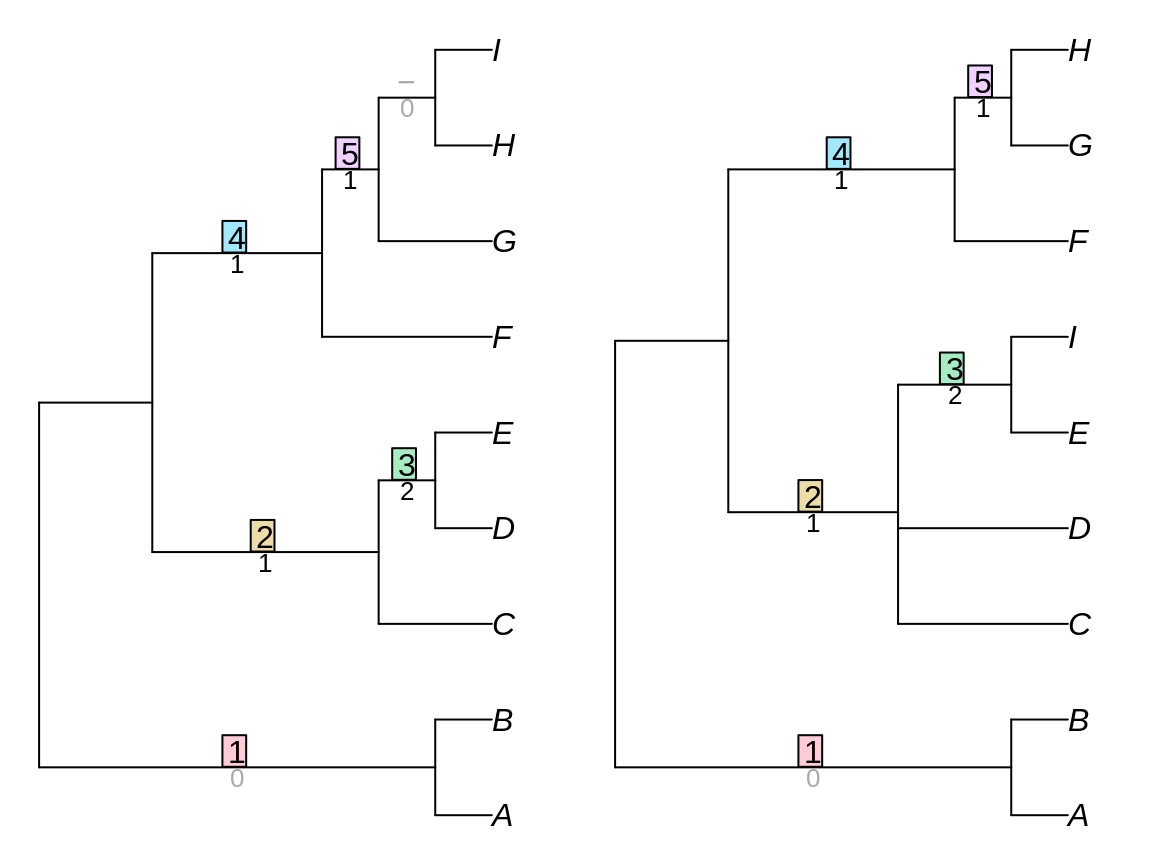
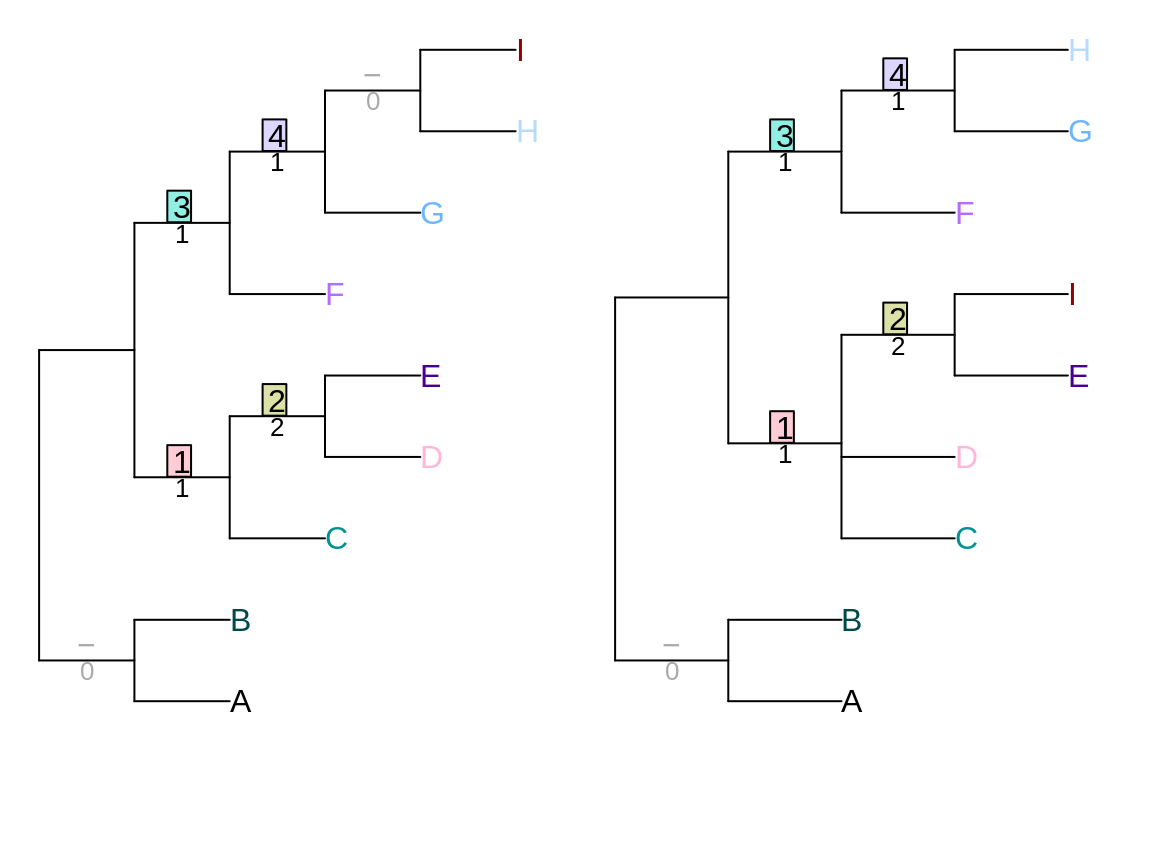
Built site for TreeDist: 0.0.0.9000@7f45f6f

diff --git a/index.html b/index.html
@@ -105,15 +105,24 @@
 <!--#TODO: https://devguide.ropensci.org/building.html#readme -->
 
 <p><code>TreeDist</code> implements a suite of metrics that quantify the topological distance between pairs of unweighted phylogenetic trees. The metrics generally fall in the category of “generalized Robinson-Foulds distances”: they are based on comparing partitions between trees, and thus reflect the relationship data within trees, with no reference to branch lengths.</p>
-<p>The Robinson-Foulds distance simply tallies the number of bipartition splits (loosely, clades) that occur in both trees – any clades that are not perfectly identical are assigned a score of zero, however similar or different they are. By overlooking potential similarities between almost-identical bipartitions, this conservative approach has undesirable properties.</p>
-<p>‘Generalized’ RF metrics pair each bipartition in one tree with a similar bipartition in the other. Each pair of partitions is assigned a similarity score; the sum of these scores in the optimal partition matching then describes the similarity between two trees.</p>
+<p>The <a href="https://ms609.github.io/TreeDist/articles/Robinson-Foulds.html">Robinson-Foulds distance</a> simply tallies the number of bipartition splits (loosely, clades) that occur in both trees – any clades that are not perfectly identical are assigned a score of zero, however similar or different they are. By overlooking potential similarities between almost-identical bipartitions, this conservative approach has undesirable properties.</p>
+<p><a href="https://ms609.github.io/TreeDist/articles/Generalized-RF.html">‘Generalized’ RF metrics</a> pair each bipartition in one tree with a similar bipartition in the other. Each pair of partitions is assigned a similarity score; the sum of these scores in the optimal partition matching then describes the similarity between two trees.</p>
 <p>Different ways of calculating the the similarity between a pair of partitions lead to different tree distance metrics, implemented in the functions below:</p>
 <ul>
-<li><p><code>MutualClusteringInfo</code>, <code>MutualPhylogeneticInfo</code> Smith (forthcoming) scores matchings based on the amount of information that one partition contains about the other. The Mutual Phylogenetic Information imposes arboreal matching: i.e. a pair of splits that cannot both exist on a single tree are assigned zero similarity. The Mutual Clustering Information metric is more forgiving, and exhibits more desirable behaviour; it is the recommended metric for tree comparison. (Its complement, <code>VariationOfClusteringInfo</code>, returns a tree distance.)</p></li>
-<li><p><code>NyeTreeSimilarity</code> Nye <em>et al.</em> (2006) score matchings according to the size of the largest bipartition that is consistent with both of them, normalized against the Jaccard index.</p></li>
-<li><p><code>MatchingSplitDistance</code> Bogdanowicz and Giaro (2012), and independently Lin <em>et al.</em> (2012), count the number of ‘mismatched’ terminals in a pair of bipartitions.</p></li>
+<li>
+<p><a href="https://ms609.github.io/TreeDist/reference/TreeDistance.html"><code>MutualClusteringInfo</code></a>, <a href="https://ms609.github.io/TreeDist/reference/TreeDistance.html"><code>MutualPhylogeneticInfo</code></a></p>
+<p>Smith (forthcoming) scores matchings based on the amount of information that one partition contains about the other. The Mutual Phylogenetic Information imposes arboreal matching: i.e. a pair of splits that cannot both exist on a single tree are assigned zero similarity. The Mutual Clustering Information metric is more forgiving, and exhibits more desirable behaviour; it is the recommended metric for tree comparison. (Its complement, <a href="https://ms609.github.io/TreeDist/reference/TreeDistance.html"><code>VariationOfClusteringInfo</code></a>, returns a tree distance.)</p>
+</li>
+<li>
+<p><a href="https://ms609.github.io/TreeDist/reference/NyeTreeSimilarity.html"><code>NyeTreeSimilarity</code></a></p>
+<p>Nye <em>et al.</em> (2006) score matchings according to the size of the largest bipartition that is consistent with both of them, normalized against the Jaccard index. This approach is extended by Böcker <em>et al</em>. (2013) with the Jaccard-Robinson-Foulds metric (function <a href="https://ms609.github.io/TreeDist/reference/JaccardRobinsonFoulds.html"><code>JaccardRobinsonFoulds</code></a>).</p>
+</li>
+<li>
+<p><a href="https://ms609.github.io/TreeDist/reference/MatchingSplitDistance.html"><code>MatchingSplitDistance</code></a></p>
+<p>Bogdanowicz and Giaro (2012), and independently Lin <em>et al.</em> (2012), count the number of ‘mismatched’ terminals in a pair of bipartitions.</p>
+</li>
 </ul>
-<p>The package also implements the variation of the path distance proposed by Kendal and Colijn (2016) (function <code>KendallColijn</code>).</p>
+<p>The package also implements the variation of the path distance proposed by Kendal and Colijn (2016) (function <a href="https://ms609.github.io/TreeDist/reference/KendallColijn.html"><code>KendallColijn</code></a>).</p>
 </div>
 <div id="installation" class="section level1">
 <h1 class="hasAnchor">
@@ -134,11 +143,10 @@ If you're feeling brave, y-->
 <div id="documentation" class="section level1">
 <h1 class="hasAnchor">
 <a href="#documentation" class="anchor"></a>Documentation</h1>
-<p>CRAN documentation files:</p>
 <ul>
-<li>
-<a href="https://CRAN.R-project.org/package=TreeDist/TreeDist.pdf">Package functions</a> reference manual</li>
-<li><a href="https://CRAN.R-project.org/package=TreeDist/vignettes/tree-distances.html">Tree distances</a></li>
+<li><p><a href="https://ms609.github.io/TreeDist/articles/Using-TreeDist.html">Using TreeDist</a></p></li>
+<li><p><a href="https://ms609.github.io/TreeDist/reference/index.html">Package functions</a></p></li>
+<li><p><a href="https://ms609.github.io/TreeDist/articles/">All vignettes</a></p></li>
 </ul>
 </div>
 <div id="see-also" class="section level1">
@@ -172,10 +180,11 @@ If you're feeling brave, y-->
 <h1 class="hasAnchor">
 <a href="#references" class="anchor"></a>References</h1>
 <ul>
+<li><p>Böcker, S. <em>et al.</em> (2013) <a href="https://dx.doi.org/10.1007/978-3-642-40453-5_13">The Generalized Robinson-Foulds Metric</a>. Algorithms in Bioinformatics. WABI 2013. Lecture Notes in Computer Science, 8126, 156–69.</p></li>
 <li><p>Bogdanowicz, D. and Giaro, K. (2012) <a href="https://dx.doi.org/10.1109/TCBB.2011.48">Matching split distance for unrooted binary phylogenetic trees</a>. IEEE/ACM Transactions on Computational Biology and Bioinformatics, 9, 150–160.</p></li>
 <li><p>Kendall, M. and Colijn, C. (2016) <a href="https://dx.doi.org/10.1093/molbev/msw124">Mapping phylogenetic trees to reveal distinct patterns of evolution</a>. Mol Biol Evol, 33, 2735–2743.</p></li>
-<li><p>Nye, T.M.W. et al. (2006) <a href="https://dx.doi.org/10.1093/bioinformatics/bti720">A novel algorithm and web-based tool for comparing two alternative phylogenetic trees</a>. Bioinformatics, 22, 117–119.</p></li>
-<li><p>Smith, M.R. (forthcoming) [Information theoretic Generalized Robinson-Foulds metrics for comparing phylogenetic trees].</p></li>
+<li><p>Nye, T.M.W. <em>et al.</em> (2006) <a href="https://dx.doi.org/10.1093/bioinformatics/bti720">A novel algorithm and web-based tool for comparing two alternative phylogenetic trees</a>. Bioinformatics, 22, 117–119.</p></li>
+<li><p>Smith, M.R. (in review) [Information theoretic Generalized Robinson-Foulds metrics for comparing phylogenetic trees].</p></li>
 </ul>
 <p>Please note that the ‘TreeDist’ project is released with a <a href="CODE_OF_CONDUCT.html">Contributor Code of Conduct</a>. By contributing to this project, you agree to abide by its terms.</p>
 </div>
@@ -222,7 +231,7 @@ If you're feeling brave, y-->
 <h2>Dev status</h2>
 <ul class="list-unstyled">
 <li><a href="http://www.repostatus.org/#active"><img src="http://www.repostatus.org/badges/latest/active.svg" alt="Project Status: Active – The project has reached a stable, usable state and is being actively developed."></a></li>
-<li><a href="https://travis-ci.com/ms609/TreeDist"><img src="https://travis-ci.com/ms609/TreeDist.svg?branch=master" alt="Travis build status"></a></li>
+<li><a href="https://travis-ci.org/ms609/TreeDist"><img src="https://travis-ci.org/ms609/TreeDist.svg?branch=master" alt="Travis build status"></a></li>
 <li><a href="https://codecov.io/gh/ms609/TreeDist"><img src="https://codecov.io/gh/ms609/TreeDist/branch/master/graph/badge.svg" alt="codecov"></a></li>
 <li><a href="https://cran.r-project.org/package=TreeDist"><img src="http://www.r-pkg.org/badges/version/TreeDist" alt="CRAN Status Badge"></a></li>
 <li><a href="https://cran.r-project.org/package=TreeDist"><img src="http://cranlogs.r-pkg.org/badges/TreeDist" alt="CRAN Downloads"></a></li>

diff --git a/articles/Generalized-RF.html b/articles/Generalized-RF.html
@@ -106,7 +106,8 @@
 
     
     
-<p>This vignette will describe the similarity measures employed by the generalized Robinson-Foulds distances implemented in this package.</p>
+<p>This document outlines the similarity measures employed by the generalized Robinson-Foulds distances implemented in this package.</p>
+<p>Before you read it, you may wish to refresh your memory of the <a href="Robinson-Foulds.html">Robinson-Foulds distance</a>, or how to <a href="Using-TreeDist.html">use the TreeDist package</a>.</p>
 <div id="mutual-phylogenetic-information" class="section level1">
 <h1 class="hasAnchor">
 <a href="#mutual-phylogenetic-information" class="anchor"></a>Mutual phylogenetic information</h1>
@@ -208,7 +209,8 @@ The two trees below are identical but for the position of <em>A</em> and <em>J</
 <p>Bogdanowicz &amp; Giaro <span class="citation">(2012)</span> propose an alternative distance, which they term the Matching Split Distance.</p>
 <div class="sourceCode" id="cb25"><pre class="sourceCode r"><code class="sourceCode r"><a class="sourceLine" id="cb25-1" data-line-number="1"><span class="kw"><a href="../reference/MatchingSplitDistance.html">MatchingSplitDistance</a></span>(tree1, tree2)</a></code></pre></div>
 <pre><code>## [1] 5</code></pre>
-<div class="sourceCode" id="cb27"><pre class="sourceCode r"><code class="sourceCode r"><a class="sourceLine" id="cb27-1" data-line-number="1"><span class="kw"><a href="../reference/VisualizeMatching.html">VisualizeMatching</a></span>(MatchingSplitDistance, tree1, tree2)</a></code></pre></div>
+<div class="sourceCode" id="cb27"><pre class="sourceCode r"><code class="sourceCode r"><a class="sourceLine" id="cb27-1" data-line-number="1"><span class="kw"><a href="../reference/VisualizeMatching.html">VisualizeMatching</a></span>(MatchingSplitDistance, tree1, tree2,</a>
+<a class="sourceLine" id="cb27-2" data-line-number="2">                  <span class="dt">Plot=</span>TreeDistPlot, <span class="dt">leaveRoom=</span><span class="ot">FALSE</span>, <span class="dt">matchZeros =</span> <span class="ot">FALSE</span>)</a></code></pre></div>
 <p><img src="Generalized-RF_files/figure-html/unnamed-chunk-9-1.png" width="576" style="display: block; margin: auto;"></p>
 <p>Note that the visualization shows the difference, rather than the similarity, between splits.</p>
 <p>Similar to the Nye <em>et al</em>. similarity metric, this method compares the subsets implied by a pair of partitions. Here, the relevanat quantity is the number of elements that must be moved from one subset to another in order to make the two partitions identical. With the pair of partitions</p>
